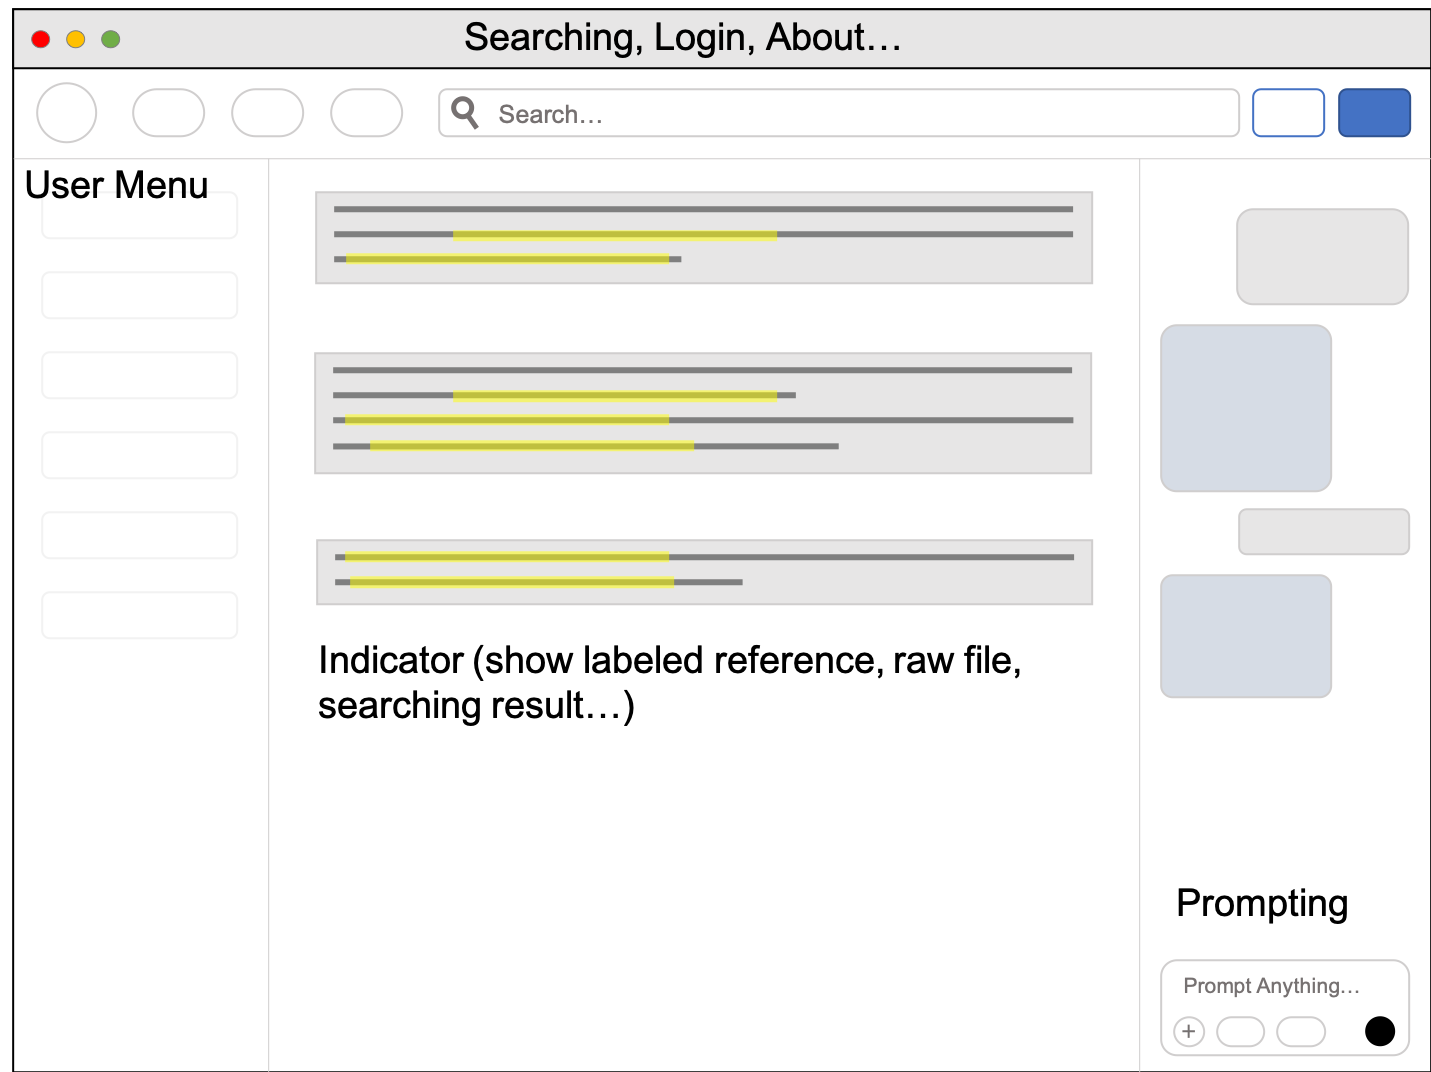
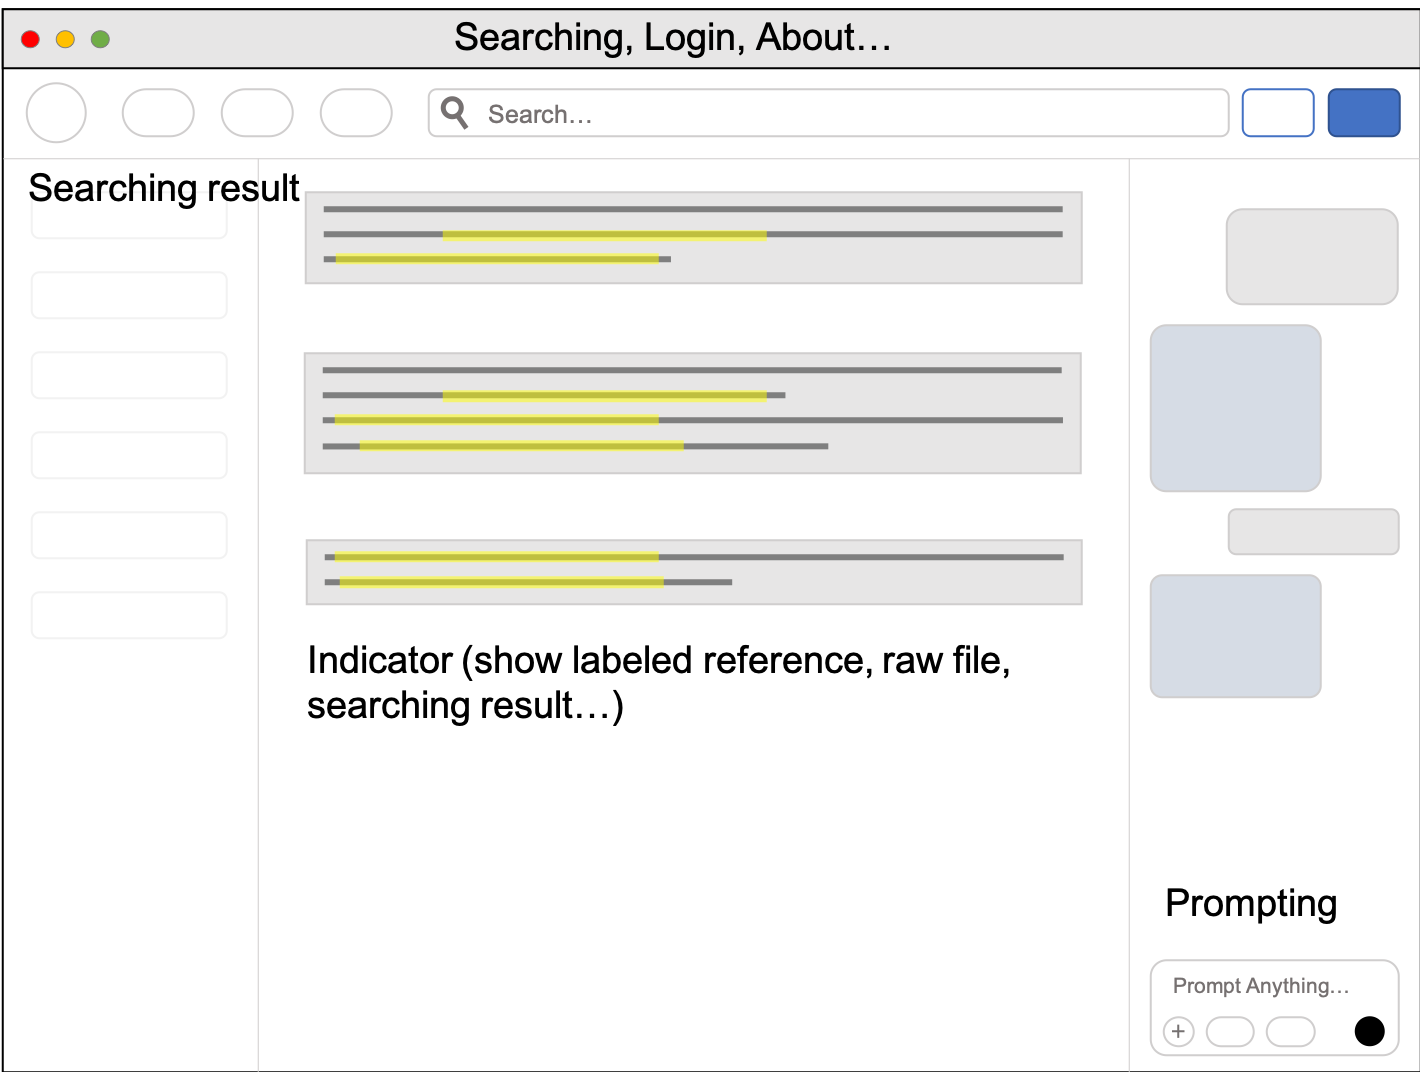
FEAT: add interface explain in README

diff --git a/README.md b/README.md
@@ -78,12 +78,66 @@ ___
 ##### - Response -> React UI Layer
 ##### - Hidden Layer (ChromaDB Server)
 
-UI Design
+UI Layout Design
 ---
 
 ![alt text](./figures/Layout.png "Layout")
 
-Function API
+Interfaces
 ---
 
+### Prompting
 
+UploadFile: Button
+___
+
+SearchOnInternet: ToggleButton
+___
+
+ReferenceSettings: DropdownMenu
+___
+
+PromptText: InputTextBox
+___
+
+ResponseText: TextBox
+___
+
+### Indicator
+
+ShowText: TextBox
+___
+
+ShowFigure: FigureBox
+___
+
+ShowReference: LocalLink
+___
+
+### Searching Result
+
+ResultList: ItemList
+___
+
+ResultItem: LocalLink \ RemoteLink
+___
+
+### Header
+
+SearchBox: InputTextBox
+___
+
+Signin: Button
+___
+
+Login: Button
+___
+
+About: Button
+___
+
+Help: Button
+___
+
+Logo: Icon
+___
